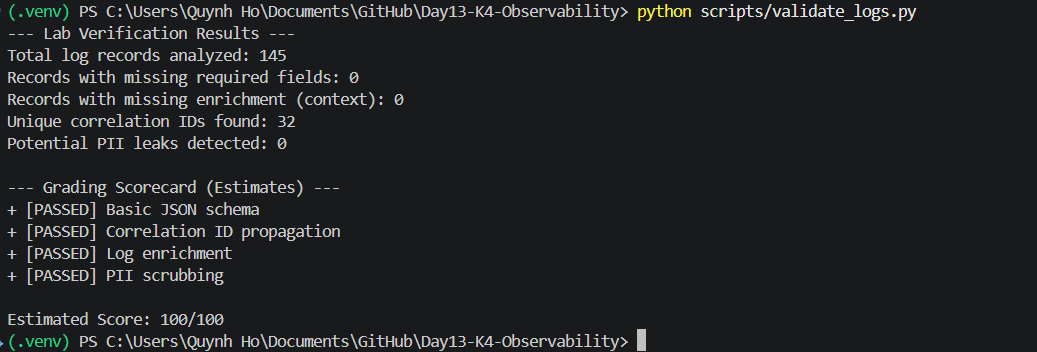
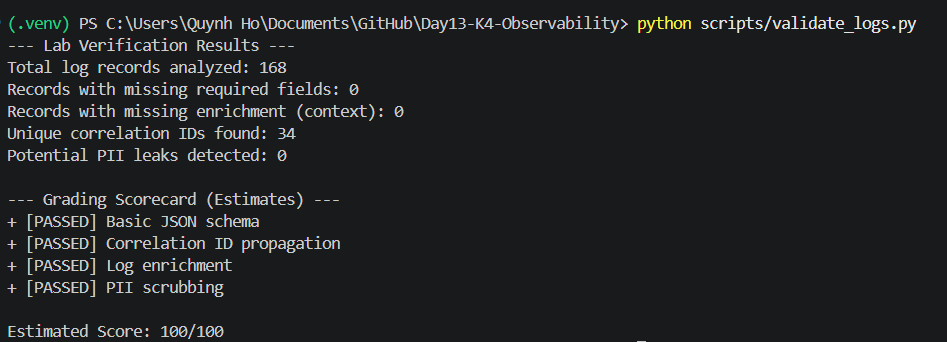
COMPLETE DAY 13

Changed region(s): [[0.0, 0.0, 0.9799, 0.4678], [0.0, 0.4971, 0.6431, 1.0], [0.6737, 0.9942, 0.7043, 1.0]]

diff --git a/ui/data.py b/ui/data.py
@@ -10,6 +10,11 @@ import pandas as pd
 import yaml
 
 
+DASHBOARD_ACTIVITY_EVENTS = frozenset(
+    {"request_received", "response_sent", "request_failed"}
+)
+
+
 @dataclass(frozen=True)
 class DashboardSnapshot:
     request_count: int
@@ -71,6 +76,21 @@ def filter_recent(
             anchor_ts = anchor_ts.tz_convert(timezone.utc)
     window = pd.to_timedelta(int(minutes), unit="min")
     return frame[frame["ts"] >= anchor_ts - window].copy()
+
+
+def dashboard_window(frame: pd.DataFrame, minutes: int) -> pd.DataFrame:
+    """Select a dashboard window anchored to the latest API telemetry.
+
+    Lifecycle events such as ``app_stopped`` can be newer than the last chat
+    request. Anchoring to every event would make the dashboard look empty even
+    when the log still contains valid request/response telemetry.
+    """
+    if frame.empty:
+        return frame.copy()
+    activity = frame[frame.get("event", pd.Series(index=frame.index, dtype=str)).isin(DASHBOARD_ACTIVITY_EVENTS)]
+    anchor = activity["ts"].max() if not activity.empty else frame["ts"].max()
+    recent = filter_recent(frame, minutes, anchor=anchor)
+    return recent[recent["ts"] <= anchor].copy()
 
 
 def _numeric(frame: pd.DataFrame, field: str) -> pd.Series:

diff --git a/tests/test_ui_dashboard.py b/tests/test_ui_dashboard.py
@@ -2,7 +2,7 @@ from __future__ import annotations
 
 from pathlib import Path
 
-from ui.data import dashboard_snapshot, filter_recent, read_jsonl, records_frame
+from ui.data import dashboard_snapshot, dashboard_window, filter_recent, read_jsonl, records_frame
 
 
 def test_dashboard_snapshot_matches_log_contract(tmp_path: Path) -> None:
@@ -45,3 +45,17 @@ def test_filter_recent_anchors_to_latest_event() -> None:
     recent = filter_recent(frame, 60)
 
     assert len(recent) == 1
+
+
+def test_dashboard_window_ignores_newer_lifecycle_events() -> None:
+    frame = records_frame(
+        [
+            {"ts": "2026-08-11T08:00:00Z", "event": "request_received"},
+            {"ts": "2026-08-11T08:00:01Z", "event": "response_sent", "latency_ms": 120},
+            {"ts": "2026-08-11T10:00:00Z", "event": "app_stopped"},
+        ]
+    )
+
+    recent = dashboard_window(frame, 60)
+
+    assert recent["event"].tolist() == ["request_received", "response_sent"]

diff --git a/ui/services.py b/ui/services.py
@@ -9,7 +9,7 @@ import pandas as pd
 
 from scripts.manage_prompts import prompt_status
 from scripts.validate_logs import ENRICHMENT_FIELDS, PII_DETECTORS
-from ui.data import dashboard_snapshot, filter_recent, minute_series, read_jsonl, records_frame
+from ui.data import dashboard_snapshot, dashboard_window, minute_series, read_jsonl, records_frame
 from ui.settings import API_BASE_URL, LOG_PATH
 
 
@@ -174,5 +174,5 @@ def run_demo_burst(count: int, scenario: str) -> list[dict[str, Any]]:
 
 def load_dashboard_data(minutes: int):
     frame = records_frame(read_jsonl(LOG_PATH))
-    recent = filter_recent(frame, minutes)
+    recent = dashboard_window(frame, minutes)
     return recent, minute_series(recent), dashboard_snapshot(recent)

diff --git a/submission/REPORT.md b/submission/REPORT.md
@@ -17,9 +17,9 @@
 
 ## 2. Kết quả kỹ thuật
 
-- Điểm `validate_logs.py`: 100/100 trên 144 record, 32 correlation ID — [evidence](evidence/validate-logs-final.txt) (baseline 30/100 tại [đây](evidence/validate-logs-baseline.txt)).
+- Điểm `validate_logs.py`: 100/100 trên 168 record, 34 correlation ID — [evidence](evidence/validate-logs-final.txt) (baseline 30/100 tại [đây](evidence/validate-logs-baseline.txt)).
 - Tổng số traces: 31 trace trong [trace index](evidence/trace-index.md); 15 trace thuộc run cuối khớp đúng `data/logs.jsonl` đang nộp.
-- Số PII leak còn lại: 0/144 log records.
+- Số PII leak còn lại: 0/168 log records.
 - Link/đường dẫn dashboard: contract 6/6 và health check FastAPI/Streamlit tại [evidence](evidence/validate-dashboard.txt). Ảnh runtime lưu tại [dashboard-runtime.png](evidence/dashboard-runtime.png); trước khi nộp cần bảo đảm ảnh là trang **Metrics** và hiển thị đủ sáu panel, cửa sổ 60 phút, đơn vị và threshold.
 
 ## 3. Logging và tracing
